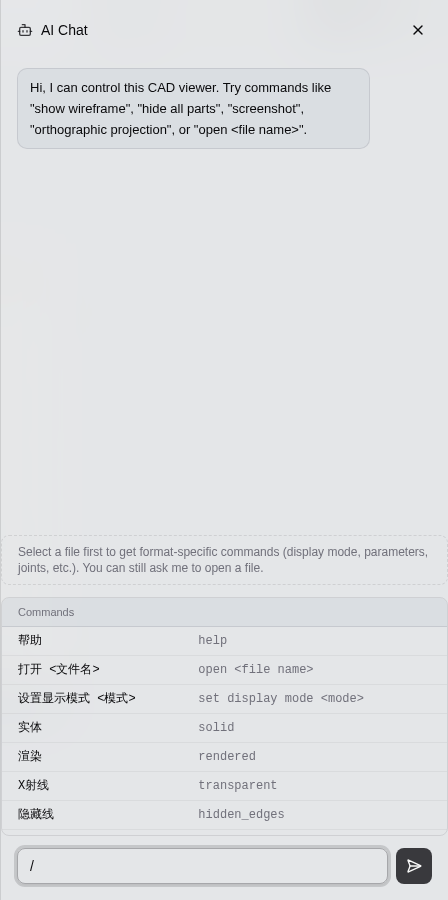
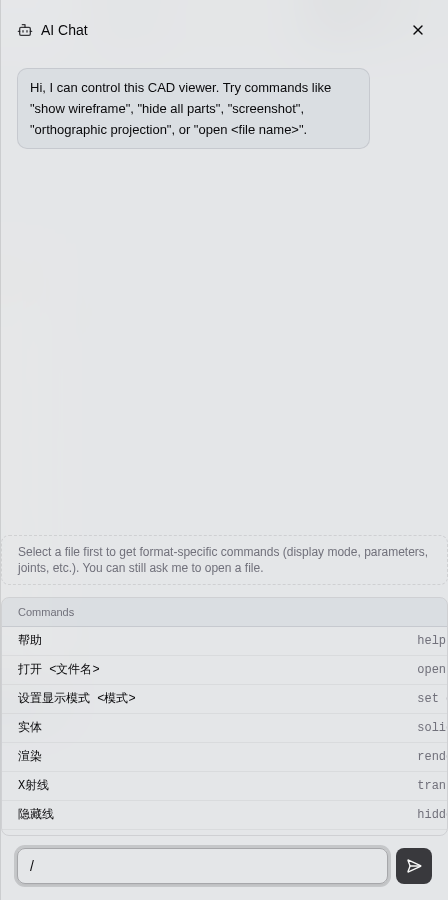
feat(viewer): 斜杠指令表补全并支持点击直接发送

diff --git a/viewer/src/client/components/workbench/AIChatDrawer.jsx b/viewer/src/client/components/workbench/AIChatDrawer.jsx
@@ -1,4 +1,4 @@
-import { useEffect, useRef, useState } from "react";
+import { Fragment, useEffect, useRef, useState } from "react";
 import { Bot, CornerDownLeft, SendHorizontal, X } from "lucide-react";
 import { Button } from "@/components/ui/button";
 import { Input } from "@/components/ui/input";
@@ -9,7 +9,7 @@ import {
   SheetTitle
 } from "@/components/ui/sheet";
 import { RENDER_FORMAT } from "@/workbench/constants";
-import { AI_COMMAND_ROWS, AI_INTENTS, parseAiCommand } from "@/workbench/aiCommands";
+import { AI_INTENTS, buildCommandRows, parseAiCommand } from "@/workbench/aiCommands";
 import { useI18n } from "@/i18n";
 
 function isStepLike(sourceFormat) {
@@ -173,7 +173,7 @@ export default function AIChatDrawer({
   actions = {},
   context = {}
 }) {
-  const { t } = useI18n();
+  const { t, lang } = useI18n();
   const [messages, setMessages] = useState(() => [{
     id: "greeting",
     role: "assistant",
@@ -182,6 +182,7 @@ export default function AIChatDrawer({
   }]);
   const [input, setInput] = useState("");
   const scrollRef = useRef(null);
+  const inputRef = useRef(null);
 
   useEffect(() => {
     if (open) {
@@ -197,12 +198,12 @@ export default function AIChatDrawer({
     scrollRef.current?.scrollTo({ top: scrollRef.current.scrollHeight });
   }, [messages]);
 
-  const sendMessage = () => {
-    const text = input.trim();
-    if (!text) {
+  const sendCommand = (text) => {
+    const trimmed = String(text || "").trim();
+    if (!trimmed) {
       return;
     }
-    const parsed = parseAiCommand(text, {
+    const parsed = parseAiCommand(trimmed, {
       sourceFormat: context.sourceFormat,
       catalog: context.catalog || [],
       parameters: context.parameters || []
@@ -215,14 +216,36 @@ export default function AIChatDrawer({
     }
     setMessages((current) => [
       ...current,
-      { id: `u-${Date.now()}`, role: "user", text },
+      { id: `u-${Date.now()}`, role: "user", text: trimmed },
       { id: `a-${Date.now() + 1}`, role: "assistant", kind: reply.kind, text: reply.text }
     ]);
     setInput("");
   };
 
+  const sendMessage = () => {
+    sendCommand(input);
+  };
+
+  const handleCommandClick = (command) => {
+    if (command.includes("<") || command.endsWith(" ")) {
+      setInput(command);
+      inputRef.current?.focus();
+      return;
+    }
+    sendCommand(command);
+  };
+
   const hasFile = Boolean(context?.fileName);
   const showCommands = input.trim().startsWith("/");
+  const commandRows = buildCommandRows({
+    catalog: context.catalog || [],
+    parameters: context.parameters || [],
+    lang
+  });
+  const GROUP_LABELS = {
+    file: t("aiCmdGroupFile"),
+    param: t("aiCmdGroupParam")
+  };
 
   return (
     <Sheet open={open} onOpenChange={onOpenChange}>
@@ -294,15 +317,35 @@ export default function AIChatDrawer({
               <ScrollArea className="max-h-52" type="auto">
                 <table className="w-full text-left text-xs">
                   <tbody>
-                    {AI_COMMAND_ROWS.map((row) => (
-                      <tr
-                        key={`${row.zh}-${row.en}`}
-                        className="border-b border-sidebar-border/50 last:border-0"
-                      >
-                        <td className="px-4 py-1.5 font-mono text-foreground">{row.zh}</td>
-                        <td className="px-4 py-1.5 font-mono text-muted-foreground">{row.en}</td>
-                      </tr>
-                    ))}
+                    {commandRows.map((row, index) => {
+                      const groupChanged = row.group !== commandRows[index - 1]?.group;
+                      return (
+                        <Fragment key={row.key}>
+                          {groupChanged && row.group ? (
+                            <tr className="border-b border-sidebar-border/50 bg-sidebar-accent/60">
+                              <td colSpan={2} className="px-4 py-1 text-[11px] font-medium text-muted-foreground">
+                                {GROUP_LABELS[row.group]}
+                              </td>
+                            </tr>
+                          ) : null}
+                          <tr
+                            className="group cursor-pointer border-b border-sidebar-border/50 last:border-0 hover:bg-sidebar-accent/60"
+                            onClick={() => handleCommandClick(row.command)}
+                            role="button"
+                            tabIndex={0}
+                            onKeyDown={(event) => {
+                              if (event.key === "Enter" || event.key === " ") {
+                                event.preventDefault();
+                                handleCommandClick(row.command);
+                              }
+                            }}
+                          >
+                            <td className="px-4 py-1.5 font-mono text-foreground">{row.zh}</td>
+                            <td className="px-4 py-1.5 font-mono text-muted-foreground">{row.en}</td>
+                          </tr>
+                        </Fragment>
+                      );
+                    })}
                   </tbody>
                 </table>
               </ScrollArea>
@@ -317,6 +360,7 @@ export default function AIChatDrawer({
             }}
           >
             <Input
+              ref={inputRef}
               value={input}
               onChange={(event) => setInput(event.target.value)}
               placeholder={t("aiPlaceholder")}

diff --git a/viewer/src/client/workbench/aiCommands.js b/viewer/src/client/workbench/aiCommands.js
@@ -39,30 +39,75 @@ export const PROJECTION_OPTIONS = Object.freeze([
   { zh: "透视", en: "perspective" }
 ]);
 
+const MODE_ROWS = DISPLAY_MODE_OPTIONS.map((option) => ({
+  zh: option.zh,
+  en: option.en,
+  commandZh: `设置显示模式 ${option.zh}`,
+  commandEn: `set display mode ${option.en}`
+}));
+
+const PROJECTION_ROWS = PROJECTION_OPTIONS.map((option) => ({
+  zh: option.zh,
+  en: option.en,
+  commandZh: `设置投影 ${option.zh}`,
+  commandEn: `set projection ${option.en}`
+}));
+
 export const AI_COMMAND_ROWS = Object.freeze([
-  { zh: "帮助", en: "help" },
-  { zh: "打开 <文件名>", en: "open <file name>" },
-  { zh: "设置显示模式 <模式>", en: "set display mode <mode>" },
-  ...DISPLAY_MODE_OPTIONS,
-  { zh: "设置投影 <投影>", en: "set projection <projection>" },
-  ...PROJECTION_OPTIONS,
-  { zh: "适应视图", en: "fit view" },
-  { zh: "重置视图", en: "reset view" },
-  { zh: "截图", en: "screenshot" },
-  { zh: "隐藏所有零件", en: "hide all parts" },
-  { zh: "显示所有零件", en: "show all parts" },
-  { zh: "隔离选中", en: "isolate selected" },
-  { zh: "文件信息", en: "file info" },
-  { zh: "设置参数 <名称> <值>", en: "set parameter <name> <value>" },
-  { zh: "重置参数", en: "reset parameters" },
-  { zh: "重置姿态", en: "reset pose" },
-  { zh: "播放动画", en: "play animation" },
-  { zh: "暂停动画", en: "pause animation" },
-  { zh: "进入预览", en: "preview mode" },
-  { zh: "退出预览", en: "exit preview" },
-  { zh: "深色模式", en: "dark mode" },
-  { zh: "浅色模式", en: "light mode" }
+  { zh: "帮助", en: "help", commandZh: "帮助", commandEn: "help" },
+  { zh: "打开 <文件名>", en: "open <file name>", commandZh: "打开 ", commandEn: "open " },
+  { zh: "设置显示模式 <模式>", en: "set display mode <mode>", commandZh: "设置显示模式 ", commandEn: "set display mode " },
+  ...MODE_ROWS,
+  { zh: "设置投影 <投影>", en: "set projection <projection>", commandZh: "设置投影 ", commandEn: "set projection " },
+  ...PROJECTION_ROWS,
+  { zh: "适应视图", en: "fit view", commandZh: "适应视图", commandEn: "fit view" },
+  { zh: "重置视图", en: "reset view", commandZh: "重置视图", commandEn: "reset view" },
+  { zh: "截图", en: "screenshot", commandZh: "截图", commandEn: "screenshot" },
+  { zh: "隐藏所有零件", en: "hide all parts", commandZh: "隐藏所有零件", commandEn: "hide all parts" },
+  { zh: "显示所有零件", en: "show all parts", commandZh: "显示所有零件", commandEn: "show all parts" },
+  { zh: "隔离选中", en: "isolate selected", commandZh: "隔离选中", commandEn: "isolate selected" },
+  { zh: "文件信息", en: "file info", commandZh: "文件信息", commandEn: "file info" },
+  { zh: "设置参数 <名称> <值>", en: "set parameter <name> <value>", commandZh: "设置参数 ", commandEn: "set parameter " },
+  { zh: "重置参数", en: "reset parameters", commandZh: "重置参数", commandEn: "reset parameters" },
+  { zh: "重置姿态", en: "reset pose", commandZh: "重置姿态", commandEn: "reset pose" },
+  { zh: "播放动画", en: "play animation", commandZh: "播放动画", commandEn: "play animation" },
+  { zh: "暂停动画", en: "pause animation", commandZh: "暂停动画", commandEn: "pause animation" },
+  { zh: "进入预览", en: "preview mode", commandZh: "进入预览", commandEn: "preview mode" },
+  { zh: "退出预览", en: "exit preview", commandZh: "退出预览", commandEn: "exit preview" },
+  { zh: "深色模式", en: "dark mode", commandZh: "深色模式", commandEn: "dark mode" },
+  { zh: "浅色模式", en: "light mode", commandZh: "浅色模式", commandEn: "light mode" }
 ]);
+
+export function buildCommandRows({ catalog = [], parameters = [], lang = "en" } = {}) {
+  const base = AI_COMMAND_ROWS.map((row) => ({
+    key: `base-${row.zh}`,
+    zh: row.zh,
+    en: row.en,
+    command: lang === "zh" ? row.commandZh : row.commandEn,
+    group: null
+  }));
+  const fileRows = (Array.isArray(catalog) ? catalog : []).map((item) => {
+    const label = String(item.label || item.key || "");
+    return {
+      key: `file-${item.key || label}`,
+      zh: `打开 ${label}`,
+      en: `open ${label}`,
+      command: lang === "zh" ? `打开 ${label}` : `open ${label}`,
+      group: "file"
+    };
+  });
+  const paramRows = (Array.isArray(parameters) ? parameters : []).map((parameter) => {
+    const label = String(parameter.label || parameter.id || "");
+    return {
+      key: `param-${parameter.id || label}`,
+      zh: `设置参数 ${label} `,
+      en: `set parameter ${label} `,
+      command: lang === "zh" ? `设置参数 ${label} ` : `set parameter ${label} `,
+      group: "param"
+    };
+  });
+  return [...base, ...fileRows, ...paramRows];
+}
 
 const DISPLAY_MODE_KEYWORDS = Object.freeze({
   solid: CAD_DISPLAY_MODE.SOLID,

diff --git a/viewer/src/client/components/workbench/HelpPage.jsx b/viewer/src/client/components/workbench/HelpPage.jsx
@@ -262,7 +262,7 @@ const HELP_DOCUMENT = {
       {
         title: "AI Assistant",
         blocks: [
-          { type: "p", text: "The Bot button in the top bar opens the AI assistant drawer. Type an exact built-in command to view and edit the current CAD file. Commands must match the built-in list exactly (no fuzzy matching); typing a slash (/) in the input shows the full command table. The assistant runs a local intent parser, so commands are handled entirely in your browser." },
+          { type: "p", text: "The Bot button in the top bar opens the AI assistant drawer. Type an exact built-in command to view and edit the current CAD file. Commands must match the built-in list exactly (no fuzzy matching); typing a slash (/) in the input shows the full command table, including the current files and model parameters. Clicking a row sends that command directly; rows with a parameter placeholder fill the input for you to complete. The assistant runs a local intent parser, so commands are handled entirely in your browser." },
           { type: "image", src: "/help-screenshots/12-ai-chat.png", alt: "AI assistant drawer replying to an open-file command" },
           {
             type: "table",
@@ -572,7 +572,7 @@ const HELP_DOCUMENT = {
       {
         title: "AI 助手",
         blocks: [
-          { type: "p", text: "顶部栏的机器人按钮可打开 AI 助手抽屉。输入精确的内置指令即可查看和编辑当前 CAD 文件。指令必须与内置指令一一对应，不支持模糊匹配；在输入框输入斜杠（/）可展开完整指令表格。助手使用本地意图解析器，指令完全在浏览器内处理。" },
+          { type: "p", text: "顶部栏的机器人按钮可打开 AI 助手抽屉。输入精确的内置指令即可查看和编辑当前 CAD 文件。指令必须与内置指令一一对应，不支持模糊匹配；在输入框输入斜杠（/）可展开完整指令表格，其中包含当前文件和模型参数。点击某一行可直接发送该指令；带参数占位符的行点击后会填入输入框，等待补充参数。助手使用本地意图解析器，指令完全在浏览器内处理。" },
           { type: "image", src: "/help-screenshots/12-ai-chat.png", alt: "AI 助手抽屉回复打开文件指令" },
           {
             type: "table",

diff --git a/viewer/src/client/i18n.jsx b/viewer/src/client/i18n.jsx
@@ -445,6 +445,8 @@ const translations = {
     gitLogEmpty: "No git history available",
     gitLogTripleClickHint: "Triple-click to view commit history",
     aiCmdListTitle: "Commands",
+    aiCmdGroupFile: "Files",
+    aiCmdGroupParam: "Parameters",
     localFilesFolder: "Local Files",
     uploadingFiles: "Uploading...",
     uploadSuccess: "Uploaded {count} file(s)",
@@ -897,6 +899,8 @@ const translations = {
     gitLogEmpty: "暂无 Git 提交记录",
     gitLogTripleClickHint: "连击三次查看提交记录",
     aiCmdListTitle: "指令清单",
+    aiCmdGroupFile: "文件",
+    aiCmdGroupParam: "参数",
     localFilesFolder: "本地文件",
     uploadingFiles: "上传中...",
     uploadSuccess: "已上传 {count} 个文件",
